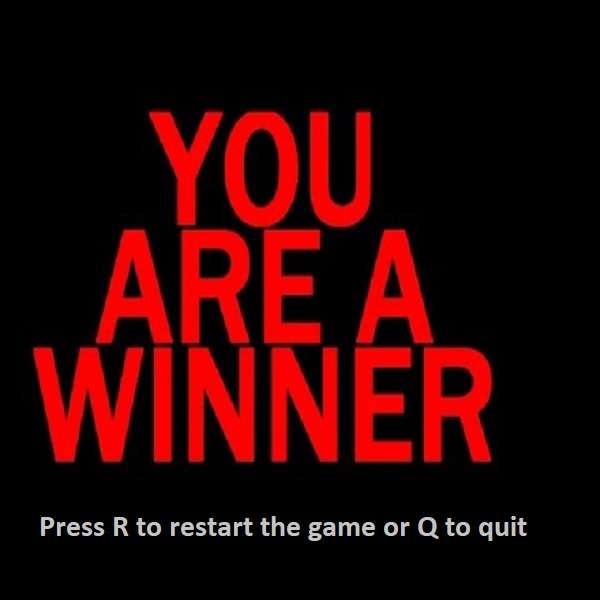
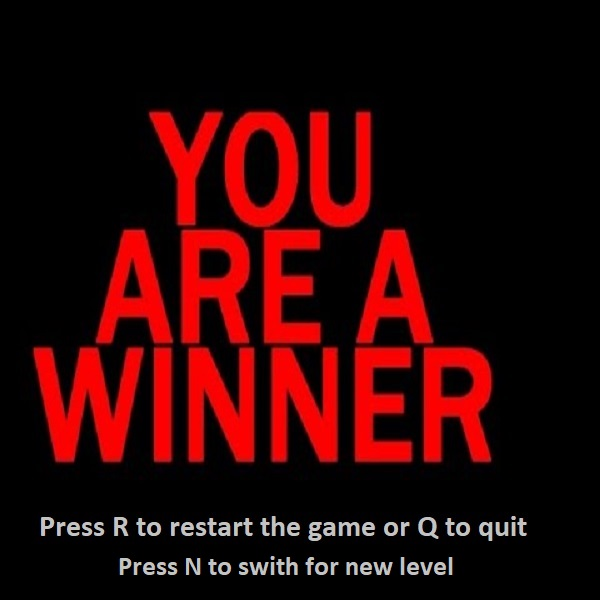
second level is added

Changed region(s): [[0.18, 0.93, 0.78, 0.96]]

diff --git a/arkanoid.py b/arkanoid.py
@@ -157,8 +157,8 @@ def level_one_create_layout(lst_gray, lst_colored):
     lst_gray.empty() #серые кирпичи хранятся отдельно
     lst_colored.empty()
     #расставляем в цикле, выбирая цвет рандомно
-    for i in range(12):
-        for j in range(10):
+    for i in range(0):
+        for j in range(0):
             #rndm = random.choice(list(colors.keys()))
             brick = Brick(1)
             brick.set_pos((1.5 * i * brick.get_width() + 20, 1.5 * j * brick.get_height() + 20))
@@ -168,6 +168,25 @@ def level_one_create_layout(lst_gray, lst_colored):
         brick = Brick(0)
         brick.set_pos((1.5 * 2 * i * brick.get_width() + 20, 1.5 * 10 * brick.get_height() + 20))
         lst_gray.add(brick)
+
+#функция, создающая уровень игры
+def level_two_create_layout(lst_gray, lst_colored):
+    #зануляем списки кирпичиков
+    lst_gray.empty() #серые кирпичи хранятся отдельно
+    lst_colored.empty()
+    #расставляем в цикле, выбирая цвет рандомно
+    for i in range(12):
+        for j in range(10):
+            rndm = random.choice(list(colors.keys())[1:])
+            brick = Brick(rndm)
+            brick.set_pos((1.5 * i * brick.get_width() + 20, 1.5 * j * brick.get_height() + 20))
+            lst_colored.add(brick)
+    # расставляем в цикле серые
+    for i in range(6):
+        brick = Brick(0)
+        brick.set_pos((1.5 * 2 * i * brick.get_width() + 20, 1.5 * 10 * brick.get_height() + 20))
+        lst_gray.add(brick)
+    ball.set_speed(250)
 
 #вычисляет отраженный угол в зависимости от начального угла и оси отражения
 def bounce_angle(angle, axe):
@@ -356,6 +375,15 @@ while running:
                       ball.set_angle(math.pi/6 + random.random() * math.pi / 2)
                 elif event.key == pygame.K_q:
                     running = False
+                elif event.key == pygame.K_n:
+                    if event.key == pygame.K_n:
+                        game_is_over = False
+                        count_of_lives = 3
+                        plat_move = False
+                        level_two_create_layout(gray_bricks, colored_bricks)
+                        ball.return_ball_in_the_game()
+                        ball.set_pos((int(width * 0.5), int(height * 0.5)))
+                        ball.set_angle(math.pi / 6 + random.random() * math.pi / 2)
         elif event.type == pygame.QUIT:
             running = False
     pygame.display.flip()
